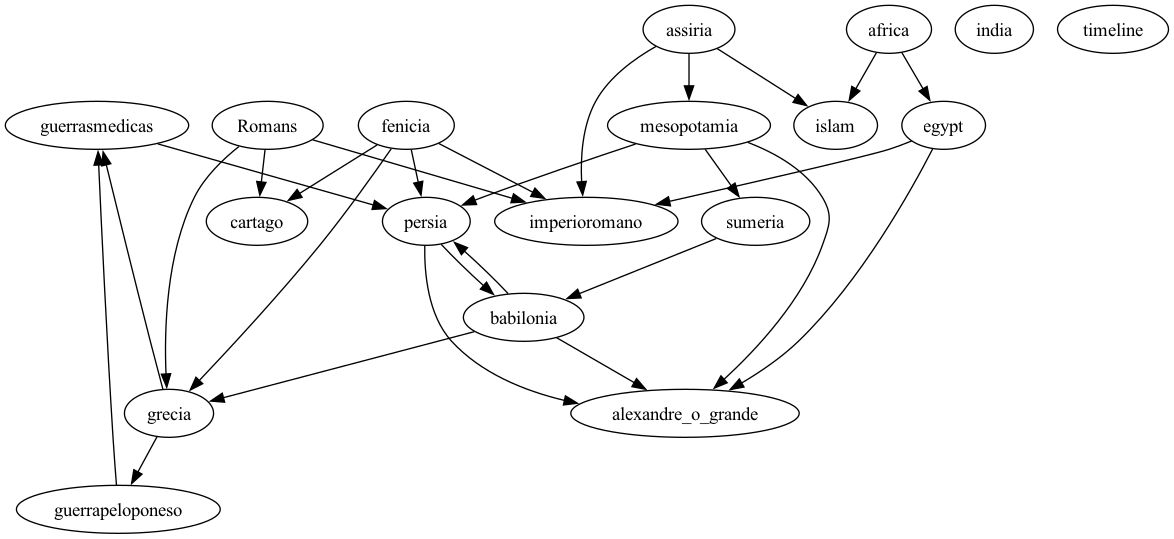
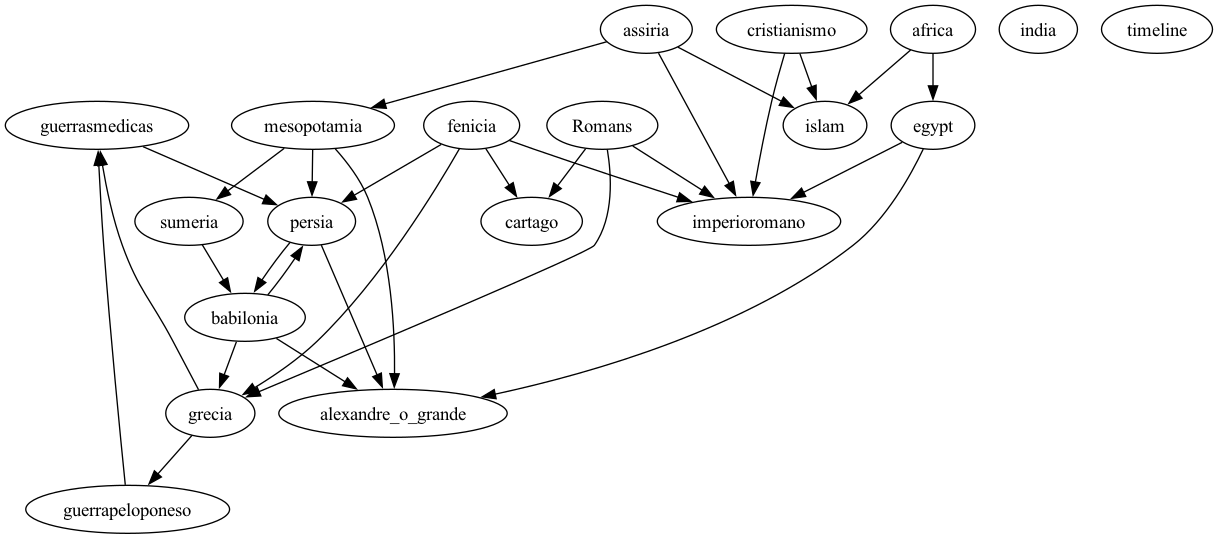
feat: cristianismo, protestantismo ::by sergio giraldo @ 20241130T2107CET, gpg signed

diff --git a/docs/index.html b/docs/index.html
@@ -76,6 +76,8 @@
 <li><a href='islam'>islam</a></li>
 
 <li><a href='assiria'>assiria</a></li>
+
+<li><a href='cristianismo'>cristianismo</a></li>
 <!--NEXT-->
 			</ul>
 		</div>

diff --git a/docs/cristianismo.md b/docs/cristianismo.md
@@ -1,0 +1,57 @@
+# cristianismo
+
+## Cristianismo primitivo
+
+A etapa da história do cristianismo de aproximadamente três séculos (I, II, III e parte do IV), que se inicia após a Ressurreição de Jesus (33 d.C.) e termina em 325 com a celebração do Primeiro Concílio de Niceia. É tipicamente dividido em Era Apostólica e o Período Ante-Niceno (desde a Era Apostólica até Niceia). A mensagem inicial do Evangelho foi espalhada oralmente, provavelmente em aramaico. Os livros do Novo Testamento Atos dos Apóstolos e Epístola aos Gálatas registam que a primeira comunidade da igreja cristã foi centrada em Jerusalém e tinha entre seus líderes Pedro, Tiago, João, e os apóstolos.
+
+Os primeiros cristãos, como descrito nos primeiros capítulos dos Atos dos Apóstolos, ou eram judeus ou eram gentios convertidos ao judaísmo, conhecidos pelos historiadores como judeus-cristãos. Tradicionalmente, o Cornélio, o Centurião, é considerado o primeiro gentio convertido. Paulo de Tarso, depois de sua conversão ao cristianismo, reivindicou o título de Apóstolo dos Gentios. A influência de Paulo no pensamento cristão se diz ser mais significativa do que qualquer outro autor do Novo Testamento. Até ao final do século I, o cristianismo começou a ser reconhecido interna e externamente como uma religião separada do judaísmo rabínico. Foi nesse período que o cânon do Novo Testamento foi desenvolvido, com as cartas de Paulo, os quatro evangelhos, e várias outras obras dos seguidores de Jesus que também foram reconhecidas como Escrituras Sagradas.
+
+### Primeiro Concílio de Niceia
+
+O Primeiro Concílio de Niceia foi o primeiro concílio ecumênico da Igreja. Seus feitos resultaram em um dos primeiros símbolos da fé e doutrina cristã, chamado de Credo Niceno. Eels reuniram-se na cidade de Niceia da Bitínia (atual İznik, província de Bursa, Turquia) pelo Imperador Romano Constantino I em 325. Constantino I organizou o concílio nos moldes do senado romano e o presidiu, mas não votou oficialmente as Questões de fé.
+
+Este concílio ecumênico foi a primeira tentativa de alcançar um consenso na Igreja através de uma assembleia representando toda a cristandade. Ósio, bispo de Córdoba, provavelmente um legado papal, pode ter presidido suas deliberações.
+
+Seus principais feitos foram a resolução da questão cristológica da natureza divina de Jesus e sua relação com Deus Pai; a construção da primeira parte do Credo Niceno; a fixação da data da Páscoa e a promulgação da lei canônica em sua primeira forma.
+
+### Consolidação da Igreja
+
+O rei Tiridates III fez do cristianismo a religião oficial na Armênia entre os anos 301 e 314, que se tornou o primeiro Estado oficialmente cristão. Essa religião não era inteiramente nova na Armênia, tendo penetrado no país pelo menos desde o século III, mas pode ter estado presente ainda antes na região.
+
+Constantino I foi exposto ao cristianismo em sua juventude e, ao longo de sua vida, seu apoio à religião cresceu, culminando no batismo em seu leito de morte. Durante seu reinado, a perseguição aos cristãos sancionada pelo Estado terminou com o Édito de Tolerância de Galério no ano 311 e o Édito de Milão em 313. Nesse ponto, o cristianismo ainda era uma crença minoritária, compreendendo talvez apenas cinco por cento da população romana. Influenciado por seu conselheiro Mardônio, o sobrinho de Constantino, Juliano, tentou, sem sucesso, suprimir o cristianismo. Em 27 de fevereiro de 380, Teodósio I, Graciano e Valentiniano II estabeleceram o cristianismo niceno como a Igreja Estatal do [Império Romano](imperioromano). Assim que se ligou ao Estado, o cristianismo enriqueceu; a Igreja solicitava doações dos ricos e agora podia possuir terras.
+
+Em termos de prosperidade e vida cultural, o Império Bizantino foi um dos picos da história cristã e da civilização cristã, e Constantinopla permaneceu como a cidade líder do mundo cristão em tamanho, riqueza e cultura. Houve um interesse renovado na filosofia grega clássica, bem como um aumento na produção literária em grego vernacular. A arte e a literatura bizantina ocupavam um lugar de destaque na Europa e o impacto cultural da arte bizantina no mundo ocidental durante esse período foi enorme e de significado duradouro. A ascensão posterior do Islã no norte da África reduziu o tamanho e o número de congregações cristãs, deixando em grande número apenas a Igreja Copta no Egito, a Igreja Ortodoxa Etíope no Chifre da África e a Igreja Núbia no Sudão (Nobácia, Macúria e Alódia).
+
+## Idade média
+
+Com o declínio e queda do Império Romano do Ocidente, o papado tornou-se um ator político, visível pela primeira vez nas negociações diplomáticas do Papa Leão I com hunos e vândalos. A Igreja também entrou em um longo período de atividade missionária e expansão entre as várias tribos. Enquanto os arianistas instituíam a pena de morte para os pagãos praticantes, o que mais tarde se tornaria o catolicismo também se espalhou entre os húngaros, os germânicos, os celtas, os bálticos e alguns povos eslavos.
+
+Por volta de 500, o cristianismo foi completamente integrado à cultura bizantina e do Reino Ostrogótico e Bento de Núrsia estabeleceu sua regra monástica, criando um sistema de regulamentos para a fundação e administração de mosteiros. O monaquismo tornou-se uma força poderosa em toda a Europa e deu origem a muitos dos primeiros centros de aprendizagem, mais notoriamente na Irlanda, Escócia e Gália, contribuindo para o Renascimento Carolíngio do século IX.
+
+No século VII, os muçulmanos conquistaram a Síria (incluindo Jerusalém), o norte da África e a Espanha, convertendo parte da população cristã ao islamismo e colocando o restante sob um estatuto legal separado. Parte do sucesso dos muçulmanos foi devido à exaustão do Império Bizantino em suas décadas de conflito com a Pérsia. A partir do século VIII, com a ascensão dos líderes carolíngios, o papado buscou maior apoio político no Reino Franco.
+
+A Idade Média trouxe grandes mudanças dentro da igreja. O Papa Gregório Magno reformou dramaticamente a estrutura e administração eclesiástica. No início do século VIII, a iconoclastia tornou-se uma questão polêmica, quando foi patrocinada pelos imperadores bizantinos. O Segundo Concílio de Niceia (787) finalmente se pronunciou a favor dos ícones religiosos. No início do século X, o monaquismo cristão ocidental foi ainda mais rejuvenescido pela liderança do grande mosteiro beneditino da Abadia de Cluny.
+
+No Ocidente, a partir do século XI, algumas escolas catedrais mais antigas tornaram-se universidades (ver, por exemplo, Universidade de Oxford, Universidade de Paris e Universidade de Bolonha). Anteriormente, o ensino superior tinha sido o domínio das escolas catedrais ou escolas monásticas (Scholae monasticae) cristãs, lideradas por monges e freiras. Evidências de tais escolas datam do século VI. Essas novas universidades expandiram o currículo para incluir programas acadêmicos para clérigos, advogados, funcionários públicos e médicos. A universidade é geralmente considerada como uma instituição que tem sua origem no cenário cristão medieval.
+
+Acompanhando o surgimento das "cidades novas" em toda a Europa, foram fundadas ordens mendicantes, trazendo a vida religiosa consagrada do mosteiro para o novo ambiente urbano. Os dois principais movimentos mendicantes foram os franciscanos e os dominicanos, fundados por Francisco de Assis e Domingos de Gusmão, respectivamente. Ambas as ordens fizeram contribuições significativas para o desenvolvimento das grandes universidades da Europa. Outra nova ordem foram os cistercienses, cujos grandes mosteiros isolados lideraram o assentamento de antigas áreas selvagens. Neste período, a construção de igrejas e a arquitetura eclesiástica atingiram novos patamares, culminando nas ordens de arquitetura românica e gótica e na construção das grandes catedrais europeias.
+
+O nacionalismo cristão surgiu durante esta época em que os cristãos sentiram o impulso de recuperar terras nas quais o cristianismo havia florescido historicamente. Em 1095, sob o pontificado de Urbano II, as Cruzadas foram lançadas. Estas foram uma série de campanhas militares na Terra Santa e em outros lugares, iniciadas em resposta aos apelos do imperador bizantino Aleixo I Comneno contra a expansão turca. As Cruzadas acabaram fracassando em abafar a agressão [islâmica](islam) e até mesmo contribuiu para a inimizade cristã com o saque de Constantinopla durante a Quarta Cruzada.
+
+Durante um período que se estende do século VII ao XIII, a igreja cristã passou por uma alienação gradual, resultando em um cisma que dividiu o cristianismo em um ramo chamado latino ou ocidental, a Igreja Católica Romana,[nota 4] e um ramo oriental, em grande parte grego, a Igreja Ortodoxa. Estas duas igrejas discordam sobre uma série de processos e questões administrativas, litúrgicas e doutrinais, principalmente a primazia da jurisdição papal. O Segundo Concílio de Lyon (1274) e o Concílio de Florença (1439) tentaram reunir as igrejas, mas em ambos os casos, os ortodoxos orientais se recusaram a implementar as decisões e as duas principais igrejas permanecem em cisma até os dias atuais. No entanto, a Igreja Católica Romana tem alcançado união com várias pequenas igrejas orientais.
+
+No século XIII, uma nova ênfase no sofrimento de Jesus, exemplificada pela pregação dos franciscanos, teve como consequência voltar a atenção dos fiéis para os judeus, a quem os cristãos haviam colocado a culpa pela morte de Jesus. A tolerância limitada do cristianismo aos judeus não era nova — Agostinho de Hipona disse que os judeus não deveriam ter permissão para desfrutar da cidadania que os cristãos consideravam garantida — mas a crescente antipatia pelos judeus foi um fator que levou à expulsão dos judeus da Inglaterra em 1290, a primeira de muitas expulsões na Europa.
+
+Começando por volta de 1184, após a cruzada contra a heresia dos cátaros, várias instituições, amplamente referidas como a Inquisição, foram estabelecidas com o objetivo de suprimir a heresia e assegurar a unidade religiosa e doutrinária dentro do cristianismo através da conversão e repressão.
+
+### Reforma protestante
+
+O Renascimento do século XV trouxe um renovado interesse em estudos antigos e clássicos. Outra grande cisma, a Reforma, resultou na divisão da cristandade ocidental em várias denominações cristãs. Em 1517, Martinho Lutero protestou contra a venda de indulgências e logo passou a negar vários pontos-chave da doutrina católica romana. Outros, como Zwingli e Calvino ainda criticaram o ensino católico romano e adoração. Estes desafios desenvolveram no movimento chamado de protestantismo, que repudiou o primado do papa, o papel da Tradição, os sete sacramentos e outras doutrinas e práticas (ver: Cinco solas). A Reforma na Inglaterra começou em 1534, quando o Rei Henrique VIII tinha se declarado chefe da Igreja da Inglaterra. No início em 1536, os mosteiros por toda a Inglaterra, País de Gales e Irlanda foram dissolvidos.
+
+Em parte como resposta à Reforma Protestante, a Igreja Católica Romana engajou-se em um processo significativo de reforma e renovação, conhecido como Contrarreforma ou Reforma Católica. O Concílio de Trento reafirmou e clarificou a doutrina católica romana. Durante os séculos seguintes, a concorrência entre o catolicismo romano e o protestantismo tornou-se profundamente envolvida com as lutas políticas entre os Estados europeus.
+
+Enquanto isso, a descoberta da América por Cristóvão Colombo em 1492 provocou uma nova onda de atividade missionária. Em parte de zelo missionário, mas sob o impulso da expansão colonial pelas potências europeias, o cristianismo se espalhou para a América, Oceania, Ásia Oriental e África Subsaariana.
+
+Em toda a Europa, as divisões causadas pela Reforma levou a surtos de violência religiosa e o estabelecimento de igrejas separadas do Estado na Europa Ocidental: o luteranismo em partes da Alemanha e na Escandinávia e o anglicanismo na Inglaterra em 1534. Em última instância, essas diferenças levaram à eclosão de conflitos em que a religião desempenhou um papel chave. A Guerra dos Trinta Anos, a Guerra Civil Inglesa e as Guerras religiosas na França são exemplos proeminentes. Estes eventos intensificaram o debate sobre a perseguição cristã e tolerância religiosa.
+
+No renascimento do neoplatonismo, os humanistas renascentistas não rejeitaram o cristianismo; muito pelo contrário, muitas das maiores obras da Renascença foram dedicadas ao cristianismo e a Igreja Católica patrocinou muitas obras de arte renascentista. Grande parte, se não a maior parte, da nova arte foi encomendada ou dedicada à Igreja. Alguns estudiosos e historiadores atribuem ao cristianismo a contribuição para o surgimento da Revolução Científica. Muitas figuras históricas conhecidas que influenciaram a ciência ocidental se consideravam cristãs, como Nicolau Copérnico, Galileu Galilei, Johannes Kepler, Isaac Newton e Robert Boyle.

diff --git a/docs/timeline.md b/docs/timeline.md
@@ -42,6 +42,8 @@
 
 | ↑ a.C - 0 - d.C ↓
 
+| 325 - Cristianismo - Conselho de Niceia
+
 | 395 - Imperio romano - termino
 
 | 476 - Civilizacao romana - termino
@@ -49,3 +51,7 @@
 | 610 - Islam - Prophet Muhammad revelations
 
 | 632 - Islam - Prophet Muhammad dies
+
+| 1095 - Cruzadas
+
+| 1517 - Lutero e Protestantismo
